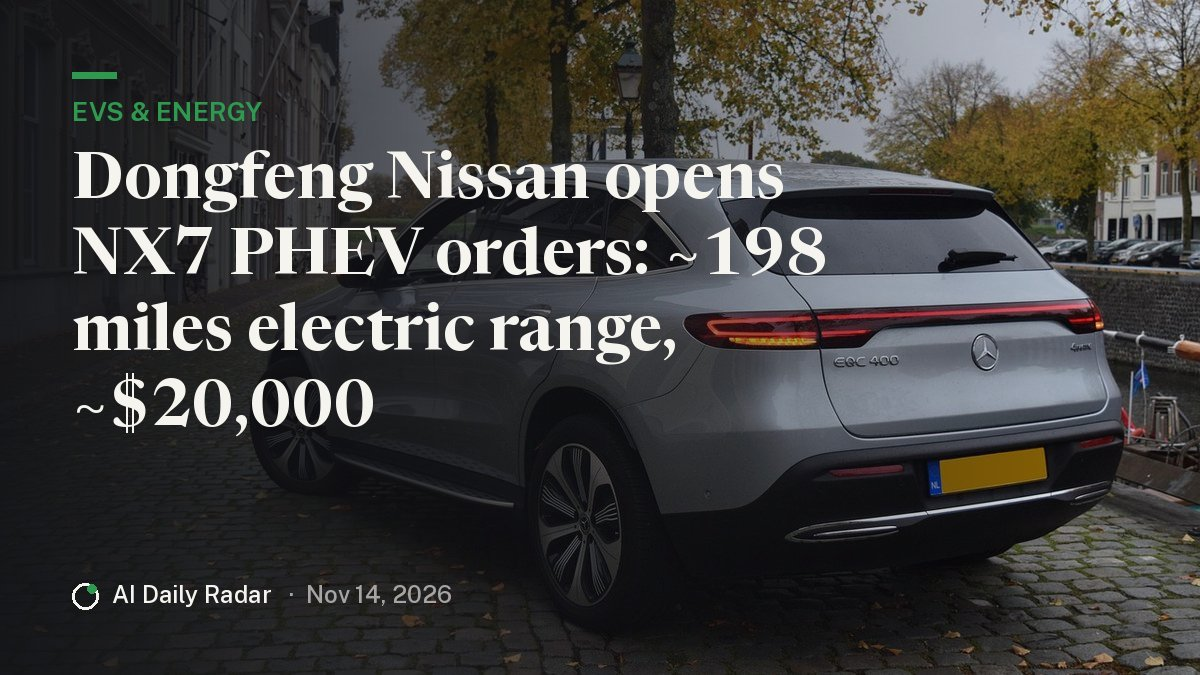
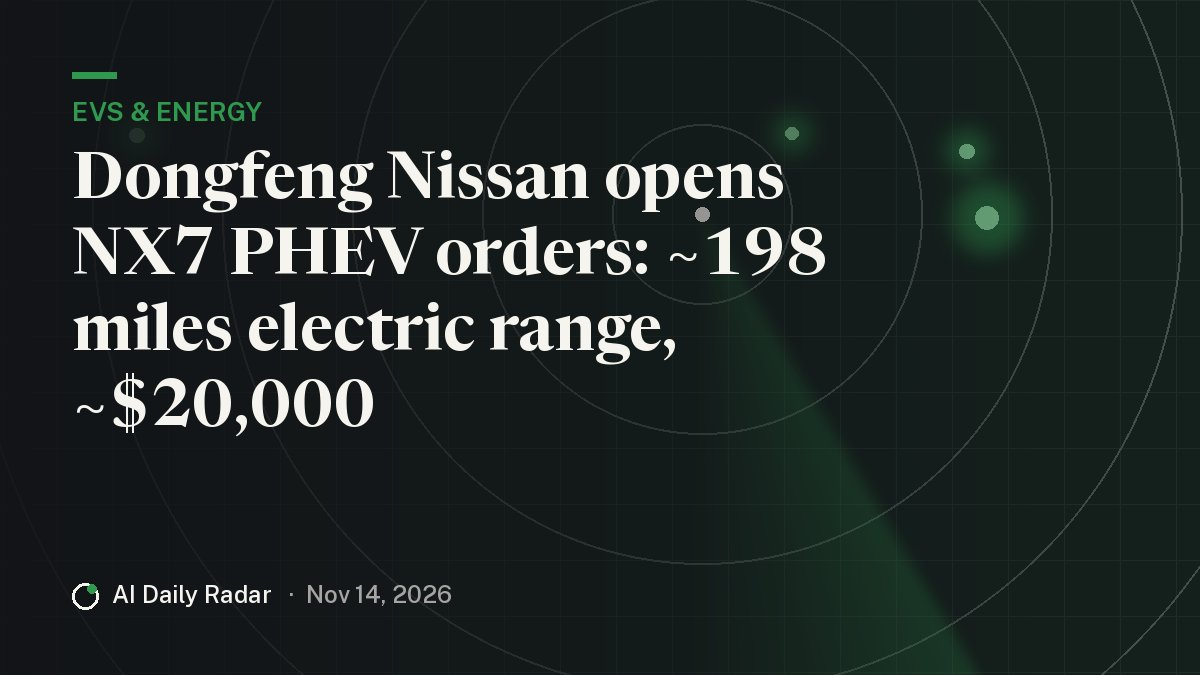
Revert off-brand photo on Dongfeng Nissan story
Claude-Session: https://claude.ai/code/session_017dokjrnGTzu7Yeb4w49h1Q

diff --git a/_stories/2026-11-14-dongfeng-nissan-opens-nx7-phev-orders-198-miles-electric-range-20-000-72c2-en.md b/_stories/2026-11-14-dongfeng-nissan-opens-nx7-phev-orders-198-miles-electric-range-20-000-72c2-en.md
@@ -21,7 +21,7 @@ order: "20261114-991"
 image: "/assets/stories/2026-11-14/dongfeng-nissan-opens-nx7-phev-orders-198-miles-electric-range-20-000-72c2-share.jpg"
 art: "/assets/stories/2026-11-14/dongfeng-nissan-opens-nx7-phev-orders-198-miles-electric-range-20-000-72c2.jpg"
 thumb: "/assets/stories/2026-11-14/dongfeng-nissan-opens-nx7-phev-orders-198-miles-electric-range-20-000-72c2-640.jpg"
-photo_credit: {"url": "https://pixabay.com/get/g596135e11e034fbf470996e2ccaa3be55f43e9ffc6cbf7e29f2c091947deb810e9fcaeb4fddcdc614cd0abd67e8efe32aed46b12d482134e1ad5944d660a06be_1280.jpg", "author": "9310613", "licence": "Pixabay Content License", "licence_url": "https://pixabay.com/service/license-summary/", "source_url": "https://pixabay.com/photos/mercedes-eqc-mercedes-ev-ev-4622242/", "provider": "Pixabay", "width": 6000, "height": 4000}
+photo_credit: null
 ---
 
 {% raw %}

diff --git a/_stories/2026-11-14-dongfeng-nissan-opens-nx7-phev-orders-198-miles-electric-range-20-000-72c2-zh.md b/_stories/2026-11-14-dongfeng-nissan-opens-nx7-phev-orders-198-miles-electric-range-20-000-72c2-zh.md
@@ -21,7 +21,7 @@ order: "20261114-991"
 image: "/assets/stories/2026-11-14/dongfeng-nissan-opens-nx7-phev-orders-198-miles-electric-range-20-000-72c2-share.jpg"
 art: "/assets/stories/2026-11-14/dongfeng-nissan-opens-nx7-phev-orders-198-miles-electric-range-20-000-72c2.jpg"
 thumb: "/assets/stories/2026-11-14/dongfeng-nissan-opens-nx7-phev-orders-198-miles-electric-range-20-000-72c2-640.jpg"
-photo_credit: {"url": "https://pixabay.com/get/g596135e11e034fbf470996e2ccaa3be55f43e9ffc6cbf7e29f2c091947deb810e9fcaeb4fddcdc614cd0abd67e8efe32aed46b12d482134e1ad5944d660a06be_1280.jpg", "author": "9310613", "licence": "Pixabay Content License", "licence_url": "https://pixabay.com/service/license-summary/", "source_url": "https://pixabay.com/photos/mercedes-eqc-mercedes-ev-ev-4622242/", "provider": "Pixabay", "width": 6000, "height": 4000}
+photo_credit: null
 ---
 
 {% raw %}
